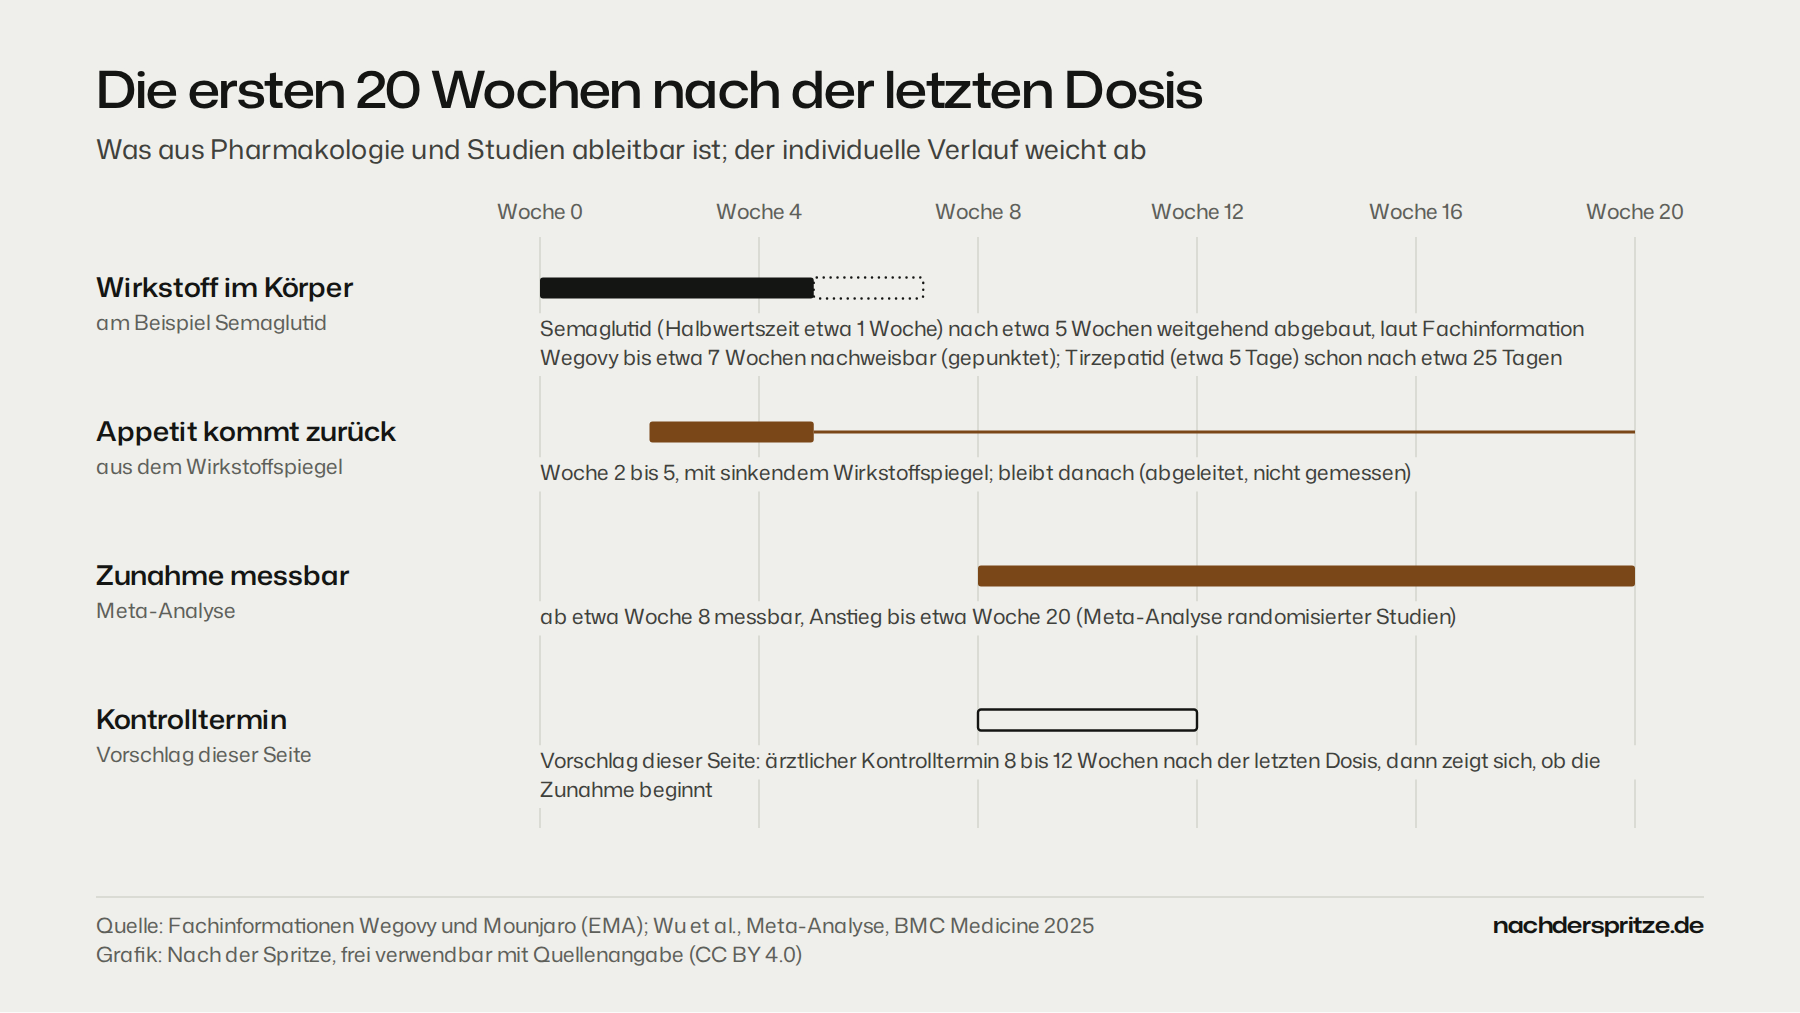
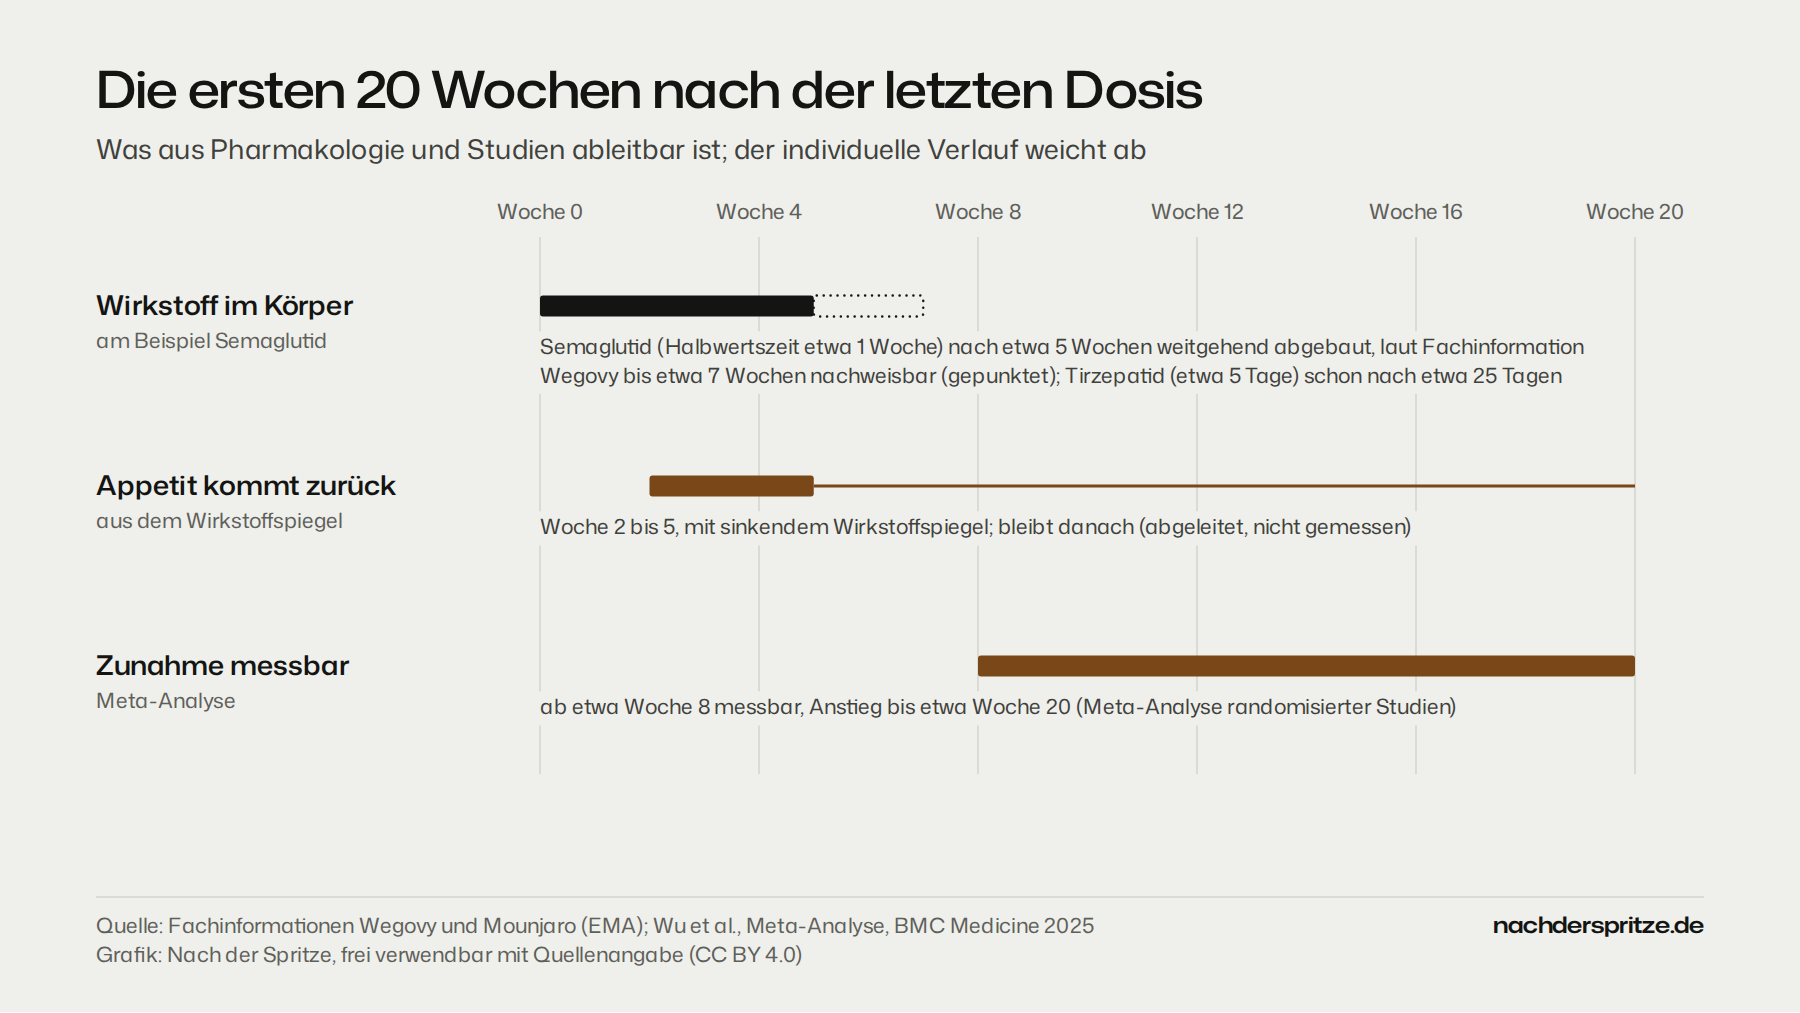
Zeitachse nach der letzten Dosis: Zeile Kontrolltermin entfernt (C17, seitenweit)
Grafik neu erzeugt (nur diese Datei), drei Zeilen neu verteilt. Alt-Text,
Untertitel im Register und Datentabelle angeglichen; Alt-Texte der eingebetteten
Grafik in abnehmspritze-absetzen.md, feiertage-nach-abnehmspritze.md und im
Wissens-Hub gleich dem Register.

Claude-Session: https://claude.ai/code/session_0178pHVfb1cCfA1AZ33sZoMM

diff --git a/src/data/grafiken.ts b/src/data/grafiken.ts
@@ -58,8 +58,8 @@ export const grafiken: Grafik[] = [
   {
     id: 'zeitachse-nach-letzter-dosis',
     title: 'Die ersten 20 Wochen nach der letzten Dosis',
-    subtitle: 'Wirkstoffabbau, Appetit, messbare Zunahme und Kontrolltermin auf einer Zeitachse',
-    alt: 'Zeitachse über 20 Wochen nach der letzten Dosis einer Abnehmspritze: Semaglutid (Halbwertszeit etwa eine Woche) ist nach etwa fünf Wochen weitgehend abgebaut und laut Fachinformation Wegovy bis etwa sieben Wochen nachweisbar, Tirzepatid (Halbwertszeit etwa fünf Tage) nach etwa 25 Tagen. Der Appetit kehrt, abgeleitet aus dem sinkenden Wirkstoffspiegel, ab Woche 2 bis 5 zurück; die Gewichtszunahme ist ab etwa Woche 8 messbar und steigt bis etwa Woche 20. Als Vorschlag dieser Seite ist ein ärztlicher Kontrolltermin 8 bis 12 Wochen nach der letzten Dosis markiert.',
+    subtitle: 'Wirkstoffabbau, Appetit und messbare Zunahme auf einer Zeitachse',
+    alt: 'Zeitachse über 20 Wochen nach der letzten Dosis einer Abnehmspritze: Semaglutid (Halbwertszeit etwa eine Woche) ist nach etwa fünf Wochen weitgehend abgebaut und laut Fachinformation Wegovy bis etwa sieben Wochen nachweisbar, Tirzepatid (Halbwertszeit etwa fünf Tage) nach etwa 25 Tagen. Der Appetit kehrt, abgeleitet aus dem sinkenden Wirkstoffspiegel, ab Woche 2 bis 5 zurück; die Gewichtszunahme ist ab etwa Woche 8 messbar und steigt bis etwa Woche 20.',
     sources: ['fachinfoWegovy', 'fachinfoMounjaro', 'wu2025'],
     used: [
       { href: '/wissen/abnehmspritze-absetzen/', label: 'Abnehmspritze absetzen' },

diff --git a/src/content/wissen/feiertage-nach-abnehmspritze.md b/src/content/wissen/feiertage-nach-abnehmspritze.md
@@ -59,7 +59,7 @@ Den Zeitplan für dein Datum rechnet das Werkzeug [Zeitplan nach der letzten Dos
 <div data-interaktiv="zeitachse" data-wirkstoffe="semaglutid,tirzepatid" data-weihnachten="ja"></div>
 
 <figure class="my-8">
-  <img src="/grafiken/zeitachse-nach-letzter-dosis.png" alt="Zeitachse über 20 Wochen nach der letzten Dosis einer Abnehmspritze: Semaglutid (Halbwertszeit etwa eine Woche) ist nach etwa fünf Wochen weitgehend abgebaut und laut Fachinformation Wegovy bis etwa sieben Wochen nachweisbar, Tirzepatid (Halbwertszeit etwa fünf Tage) nach etwa 25 Tagen. Der Appetit kehrt, abgeleitet aus dem sinkenden Wirkstoffspiegel, ab Woche 2 bis 5 zurück; die Gewichtszunahme ist ab etwa Woche 8 messbar und steigt bis etwa Woche 20. Als Vorschlag dieser Seite ist ein ärztlicher Kontrolltermin 8 bis 12 Wochen nach der letzten Dosis markiert." width="1200" height="675" loading="lazy" class="w-full" />
+  <img src="/grafiken/zeitachse-nach-letzter-dosis.png" alt="Zeitachse über 20 Wochen nach der letzten Dosis einer Abnehmspritze: Semaglutid (Halbwertszeit etwa eine Woche) ist nach etwa fünf Wochen weitgehend abgebaut und laut Fachinformation Wegovy bis etwa sieben Wochen nachweisbar, Tirzepatid (Halbwertszeit etwa fünf Tage) nach etwa 25 Tagen. Der Appetit kehrt, abgeleitet aus dem sinkenden Wirkstoffspiegel, ab Woche 2 bis 5 zurück; die Gewichtszunahme ist ab etwa Woche 8 messbar und steigt bis etwa Woche 20." width="1200" height="675" loading="lazy" class="w-full" />
   <figcaption class="mt-2 text-sm text-ink-3">Die ersten 20 Wochen nach der letzten Dosis: Halbwertszeiten laut Fachinformation, Zunahme laut Meta-Analyse.<sup><a href="#fn-wu2025">5</a></sup> Grafik: Nach der Spritze, frei verwendbar mit Quellenangabe.</figcaption>
 </figure>
 

diff --git a/src/content/wissen/abnehmspritze-absetzen.md b/src/content/wissen/abnehmspritze-absetzen.md
@@ -68,7 +68,7 @@ Die folgende Übersicht fasst zusammen, was aus Pharmakologie und Studien ableit
 <div data-interaktiv="zeitachse" data-wirkstoffe="semaglutid,tirzepatid"></div>
 
 <figure class="my-8">
-  <img src="/grafiken/zeitachse-nach-letzter-dosis.png" alt="Zeitachse über 20 Wochen nach der letzten Dosis einer Abnehmspritze: Semaglutid (Halbwertszeit etwa eine Woche) ist nach etwa fünf Wochen weitgehend abgebaut und laut Fachinformation Wegovy bis etwa sieben Wochen nachweisbar, Tirzepatid (Halbwertszeit etwa fünf Tage) nach etwa 25 Tagen. Der Appetit kehrt, abgeleitet aus dem sinkenden Wirkstoffspiegel, ab Woche 2 bis 5 zurück; die Gewichtszunahme ist ab etwa Woche 8 messbar und steigt bis etwa Woche 20. Als Vorschlag dieser Seite ist ein ärztlicher Kontrolltermin 8 bis 12 Wochen nach der letzten Dosis markiert." width="1200" height="675" loading="lazy" class="w-full" />
+  <img src="/grafiken/zeitachse-nach-letzter-dosis.png" alt="Zeitachse über 20 Wochen nach der letzten Dosis einer Abnehmspritze: Semaglutid (Halbwertszeit etwa eine Woche) ist nach etwa fünf Wochen weitgehend abgebaut und laut Fachinformation Wegovy bis etwa sieben Wochen nachweisbar, Tirzepatid (Halbwertszeit etwa fünf Tage) nach etwa 25 Tagen. Der Appetit kehrt, abgeleitet aus dem sinkenden Wirkstoffspiegel, ab Woche 2 bis 5 zurück; die Gewichtszunahme ist ab etwa Woche 8 messbar und steigt bis etwa Woche 20." width="1200" height="675" loading="lazy" class="w-full" />
   <figcaption class="mt-2 text-sm text-ink-3">Die ersten 20 Wochen nach der letzten Dosis: Halbwertszeiten laut Fachinformation, Zunahme laut Meta-Analyse.<sup><a href="#fn-wu2025">2</a></sup> Grafik: Nach der Spritze, frei verwendbar mit Quellenangabe.</figcaption>
 </figure>
 
